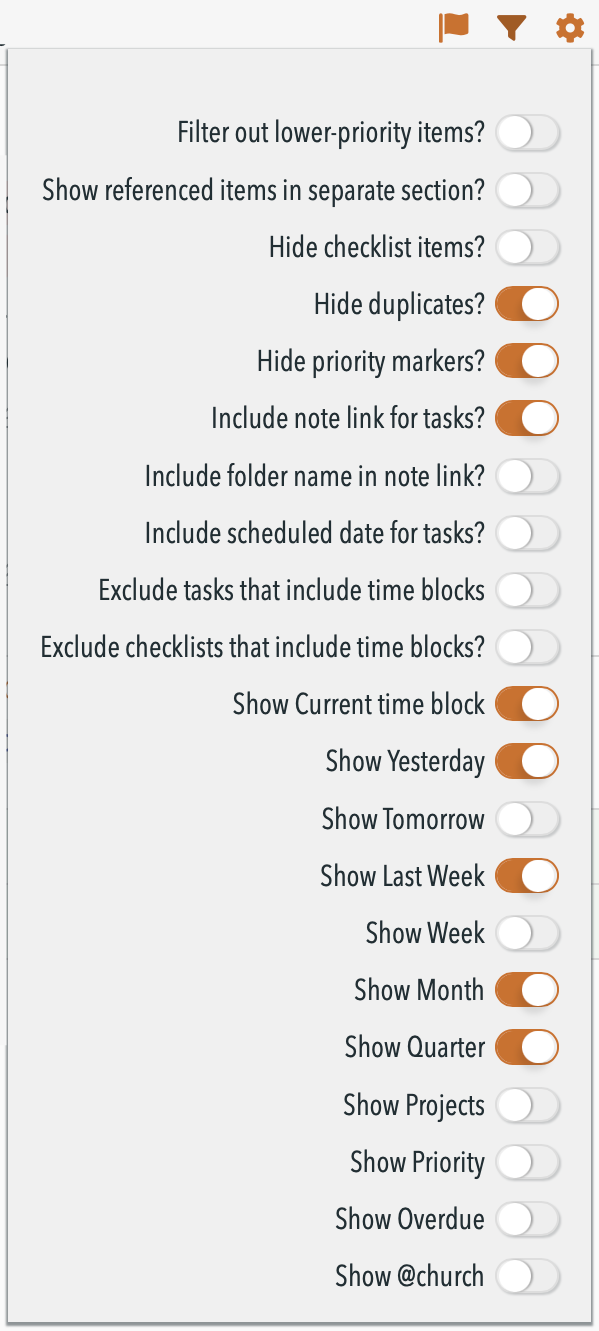
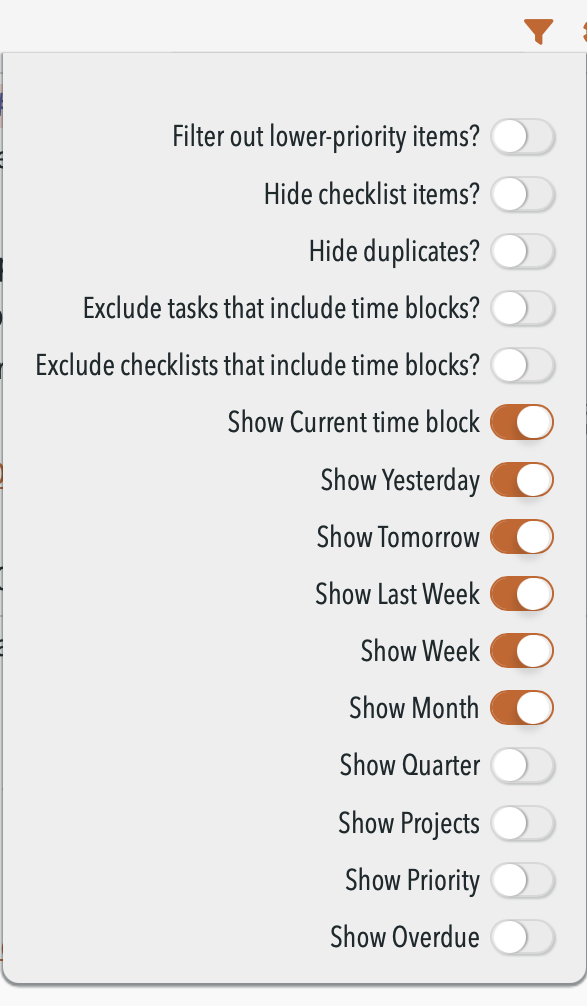
Move some 'filter' menu items to 'settings' dialog

Changed region(s): [[0.0, 0.0308, 1.0, 1.0], [0.8279, 0.0, 0.9813, 0.0616], [0.7359, 0.0, 0.7973, 0.0308]]

diff --git a/jgclark.Dashboard/src/dashboardSettings.js b/jgclark.Dashboard/src/dashboardSettings.js
@@ -18,13 +18,6 @@ export const dashboardFilterDefs: Array<TSettingItem> = [
     description: 'Whether to hide lower-priority items from appearing in a dashboard section, when there are also higher-priority items in that section.',
   },
   {
-    label: 'Show referenced items in separate section?',
-    key: 'separateSectionForReferencedNotes',
-    type: 'switch',
-    default: false,
-    refreshAllOnChange: true
-  },
-  {
     label: 'Hide checklist items?',
     key: 'ignoreChecklistItems',
     type: 'switch',
@@ -37,34 +30,6 @@ export const dashboardFilterDefs: Array<TSettingItem> = [
     type: 'switch',
     default: false,
     description: "Only display one instance of each item, even if it's in multiple sections"
-  },
-  {
-    label: 'Hide priority markers?',
-    key: 'hidePriorityMarkers',
-    type: 'switch',
-    default: false,
-    description: "Hide the '>>', '!!', '!', and '!!' priority markers (if your theme shows them)",
-  },
-  {
-    label: 'Include note link for tasks?',
-    key: 'includeTaskContext',
-    type: 'switch',
-    default: true,
-    description: 'Whether to show the note link for an open task or checklist'
-  },
-  {
-    label: 'Include folder name in note link?',
-    key: 'includeFolderName',
-    type: 'switch',
-    default: true,
-    description: 'Whether to include the folder name when showing a note link',
-  },
-  {
-    label: 'Include scheduled date for tasks?',
-    key: 'includeScheduledDates',
-    type: 'switch',
-    default: true,
-    description: 'Whether to display scheduled >dates for tasks in dashboard view',
   },
   {
     label: 'Exclude tasks that include time blocks?',
@@ -92,7 +57,7 @@ export const dashboardSettingDefs: Array<TSettingItem> = [
     type: 'heading',
     label: 'Perspectives',
     description:
-      "A 'Perspective' is a named set of all your Dashboard settings, including which folders to include/ignore, which sections to show. Each 'Perspective' has a name, and can be updated and deleted. The '-' Perspective is a default (which can't be deleted).",
+      "A 'Perspective' is a named set of all your Dashboard settings below, including which folders to include/ignore, which sections to show. Each 'Perspective' has a name, and can be updated and deleted. The '-' Perspective is a default (which can't be deleted).",
   },
   {
     key: 'perspectivesEnabled',
@@ -199,6 +164,7 @@ export const dashboardSettingDefs: Array<TSettingItem> = [
   {
     type: 'heading',
     label: 'Display settings',
+    description: 'Settings that control how the Dashboard displays information. There are also toggles that control filtering of which Sections to show in the Filters dropdown menu.',
   },
   {
     key: 'maxItemsToShowInSection',
@@ -208,15 +174,6 @@ export const dashboardSettingDefs: Array<TSettingItem> = [
     type: 'number',
     default: '24',
     compactDisplay: true,
-  },
-  {
-    key: 'parentChildMarkersEnabled',
-    // label: 'Show parent/child markers on items?',
-    // description: 'Add a small icon on items that either have indented sub-items, or is an indented child a parent item.',
-    label: 'Show parent markers on items?',
-    description: 'If set adds an ellipsis icon on items that have "children" (indented sub-items), whether they are also shown or not.',
-    type: 'switch',
-    default: true,
   },
   {
     key: 'displayDoneCounts',
@@ -242,6 +199,51 @@ export const dashboardSettingDefs: Array<TSettingItem> = [
     type: 'input',
     default: '',
     compactDisplay: true,
+  },
+  {
+    label: 'Show referenced items in separate section?',
+    key: 'separateSectionForReferencedNotes',
+    description: 'Whether to show items that are referenced to a Calendar note from other notes in a separate section than those in the Calendar note itself.',
+    type: 'switch',
+    default: false,
+    refreshAllOnChange: true
+  },
+  {
+    label: 'Hide priority markers?',
+    key: 'hidePriorityMarkers',
+    type: 'switch',
+    default: false,
+    description: "Hide the '>>', '!!', '!', and '!!' priority markers (if your theme uses priorities markers)",
+  },
+  {
+    label: 'Show note link for tasks?',
+    key: 'includeTaskContext',
+    type: 'switch',
+    default: true,
+    description: 'Whether to show the note link for an open task or checklist'
+  },
+  {
+    label: 'Show folder name in note link?',
+    key: 'includeFolderName',
+    type: 'switch',
+    default: true,
+    description: 'Whether to include the folder name when showing a note link',
+  },
+  {
+    label: 'Show scheduled date for tasks?',
+    key: 'includeScheduledDates',
+    type: 'switch',
+    default: true,
+    description: 'Whether to display scheduled >dates for tasks in dashboard view',
+  },
+  {
+    key: 'parentChildMarkersEnabled',
+    // label: 'Show parent/child markers on items?',
+    // description: 'Add a small icon on items that either have indented sub-items, or is an indented child a parent item.',
+    label: 'Show parent markers on items?',
+    description: 'If set adds an ellipsis icon on items that have "children" (indented sub-items), whether they are also shown or not.',
+    type: 'switch',
+    default: true,
   },
   {
     type: 'separator',

diff --git a/jgclark.Dashboard/src/react/css/DropdownMenu.css b/jgclark.Dashboard/src/react/css/DropdownMenu.css
@@ -1,6 +1,6 @@
 /**
  * CSS for the Dropdown menus
- * Last updated for v2.1.0.a
+ * Last updated for v2.1.0.b
  */
 
 /* Content in just 1 column */
@@ -16,26 +16,6 @@
   box-shadow: 0px 1px 1px 1px rgb(from var(--fg-main-color) r g b / 0.5);
   overflow: hidden;
   /* max-height: 0; */
-  transition: max-height 0.2s ease-out, opacity 0.2s ease-out;
-  opacity: 0;
-}
-
-/* TODO: bring this back into play in some way */
-.dropdown-content-two-cols {
-  /* Ensure the dropdown content is completely hidden when closed */
-  display: none;
-  /* flex-direction: column; */
-  /* gap: 1rem; */
-  grid-template-columns: max-content max-content;
-  grid-template-areas: "left right";
-  grid-gap: 1.5rem;
-  position: absolute;
-  color: var(--fg-main-color);
-  background-color: var(--bg-alt-color);
-  /* box-shadow: 0 8px 16px rgba(0, 0, 0, 0.2); */
-  box-shadow: 0px 1px 1px 1px rgb(from var(--fg-main-color) r g b / 0.5);
-  overflow: hidden;
-  max-height: 0;
   transition: max-height 0.2s ease-out, opacity 0.2s ease-out;
   opacity: 0;
 }
@@ -80,7 +60,7 @@
 .dropdown-content.show {
   display: grid;
   width: max-content;
-  right: -2rem;
+  right: -1rem;
   opacity: 1;
   padding: 0.5rem 1.0rem;
   animation: unfurl 0.2s ease-out forwards, showScrollbar 0s 0.2s forwards;

diff --git a/jgclark.Dashboard/src/react/css/PerspectivesTable.css b/jgclark.Dashboard/src/react/css/PerspectivesTable.css
@@ -3,11 +3,15 @@
   overflow: auto;
 }
 
-
 /* Change scrollbar look to match theme */
 /* Note: Non-standard: in time hopefully will support scrollbar-color:  https://developer.mozilla.org/en-US/docs/Web/CSS/scrollbar-color) */
 .perspectives-table-container::-webkit-scrollbar {
-    width: 10px;
+    width: 9px;
+    background: var(--bg-main-color);
+}
+/* shouldn't be needed as well as one above. But TEST: to see if it helps. So far it doesn't on Safari. */
+.perspectives-table-container::-webkit-scrollbar:horizontal {
+    width: 9px;
     background: var(--bg-main-color);
 }
 .perspectives-table-container::-webkit-scrollbar-thumb {
